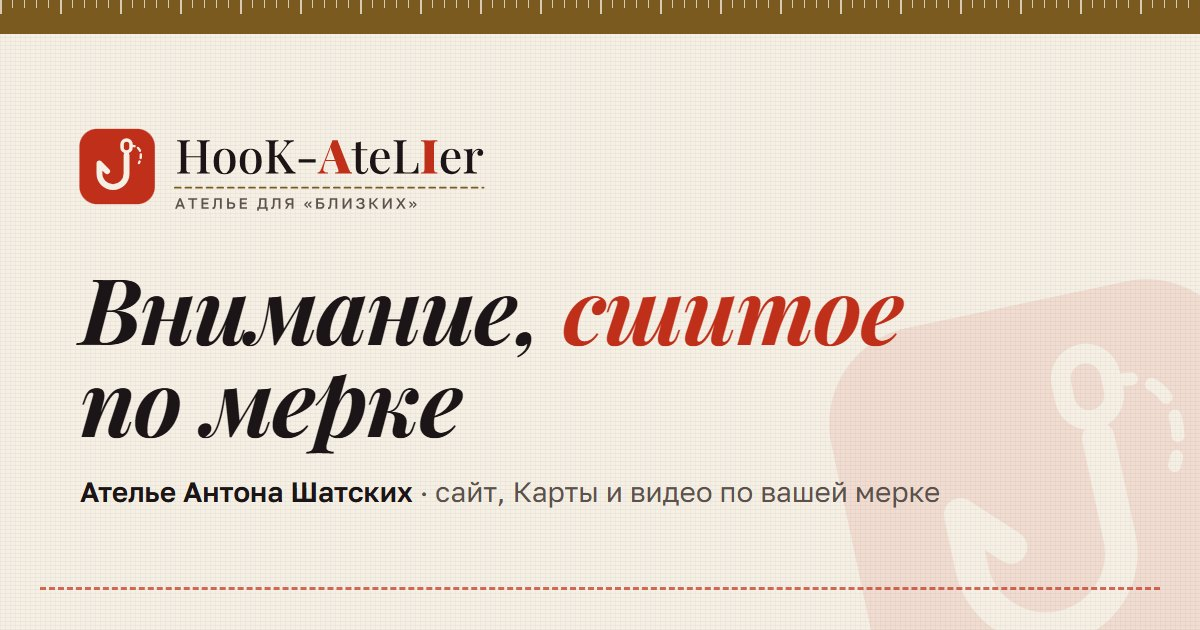
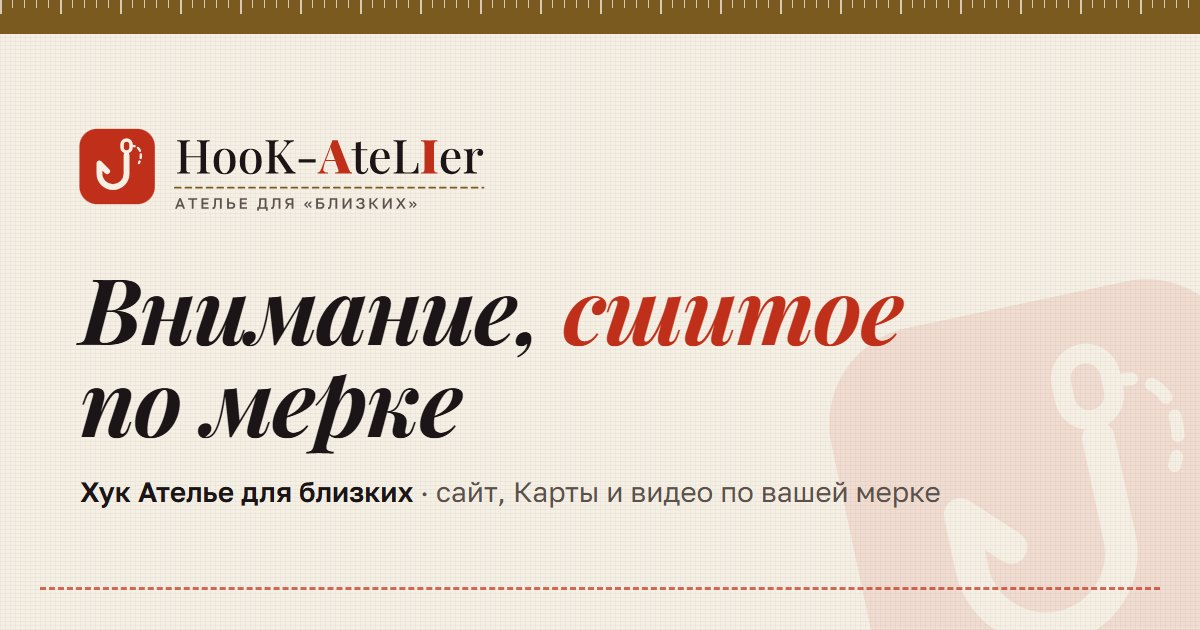
feat: «Хук Ателье для близких» вместо «ателье Антона Шатских»
Пользователь: «не упоминай про Антона Шатских, будем создавать и развивать продукт с другом Алексеем Великановым».

Requirements: R07

Changed region(s): [[0.37, 0.754, 0.7708, 0.8143], [0.0617, 0.754, 0.3392, 0.8143]]

diff --git a/index.html b/index.html
@@ -3,14 +3,14 @@
 <head>
 <meta charset="utf-8">
 <meta name="viewport" content="width=device-width, initial-scale=1, viewport-fit=cover">
-<title>HooK-AteLIer — ателье Антона Шатских</title>
-<meta name="description" content="HooK-AteLIer — ателье Антона Шатских: сайт, Карты и видео по вашей мерке. Таплинки, лендинги, брендинг, рилсы. Цены от 2 400 ₽.">
+<title>HooK-AteLIer — Хук Ателье для близких</title>
+<meta name="description" content="HooK-AteLIer — Хук Ателье для близких: сайт, Карты и видео по вашей мерке. Таплинки, лендинги, брендинг, рилсы. Цены от 2 400 ₽.">
 <meta name="theme-color" content="#F5EFE4" media="(prefers-color-scheme: light)">
 <meta name="theme-color" content="#121012" media="(prefers-color-scheme: dark)">
 <meta property="og:type" content="website">
 <meta property="og:locale" content="ru_RU">
 <meta property="og:site_name" content="HooK-AteLIer">
-<meta property="og:title" content="HooK-AteLIer — ателье Антона Шатских">
+<meta property="og:title" content="HooK-AteLIer — Хук Ателье для близких">
 <meta property="og:description" content="Внимание, сшитое по мерке: сайт, Карты и видео в одном стиле, под ключ и по фиксированной цене.">
 <meta property="og:url" content="https://hook-atelier.github.io/">
 <meta property="og:image" content="https://hook-atelier.github.io/assets/og.jpg">
@@ -246,7 +246,7 @@
       <div class="portrait">
         <svg class="ring" viewBox="0 0 132 132" aria-hidden="true"><circle cx="66" cy="66" r="63" fill="none" stroke="currentColor" stroke-width="1.5" stroke-dasharray="5 6"/></svg>
         <img src="assets/logo-mark.svg" width="100" height="100" alt="Знак HooK-AteLIer — крючок-игла">
-        <span class="portrait-note">здесь будет фото Антона</span>
+        <span class="portrait-note">здесь будет фото команды</span>
       </div>
       <button class="theme-btn" type="button" id="themeBtn" aria-label="Переключить тему">Тема</button>
     </div>
@@ -255,7 +255,7 @@
       <h1 class="sr">HooK-AteLIer</h1>
       <img class="logo logo-light" src="assets/logo-main.svg" width="365" height="96" alt="HooK-AteLIer">
       <img class="logo logo-dark" src="assets/logo-mono.svg" width="365" height="96" alt="HooK-AteLIer">
-      <p class="formula"><b><span class="wm">HooK-<b>A</b>teL<b>I</b>er</span> — ателье Антона Шатских</b> <span class="say-it">· «Хук Ателье»</span></p>
+      <p class="formula"><b>Хук Ателье для близких</b></p>
     </div>
 
     <p class="tagline rise d3">Внимание, <em>сшитое</em> по&nbsp;мерке</p>
@@ -406,7 +406,7 @@
 </div>
 
 <footer>
-  <span><span class="wm">HooK-<b>A</b>teL<b>I</b>er</span> — ателье Антона Шатских</span>
+  <span><span class="wm">HooK-<b>A</b>teL<b>I</b>er</span> — Хук Ателье для близких</span>
   <span>Сайт, Карты и&nbsp;видео по&nbsp;вашей мерке · 2026</span>
 </footer>
 
